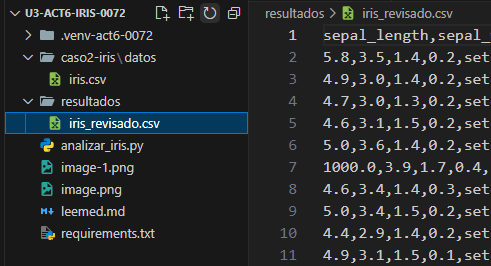
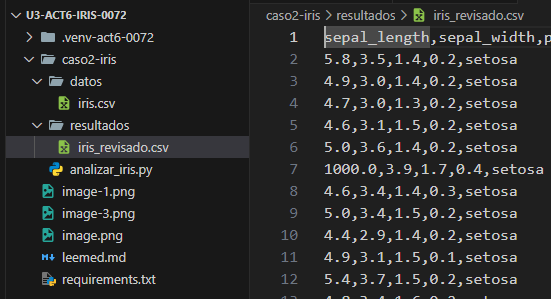
Add files via upload

diff --git a/caso2-iris/analizar_iris.py b/caso2-iris/analizar_iris.py
@@ -1,0 +1,84 @@
+# ==========================================
+# CASO 2: IDENTIFICACIÓN DE PROBLEMAS (SIMULADOS)
+# DATASET: IRIS
+# ==========================================
+import pandas as pd
+import numpy as np
+import os
+
+# Crear las carpetas necesarias si no existen
+os.makedirs("caso2-iris/datos", exist_ok=True)
+os.makedirs("resultados", exist_ok=True)
+
+print("🌸 Iniciando análisis de Flores Iris...\n")
+
+# 1. Descargar el dataset original y guardarlo como CSV
+url = "https://raw.githubusercontent.com/mwaskom/seaborn-data/master/iris.csv"
+df_original = pd.read_csv(url)
+df_original.to_csv("caso2-iris/datos/iris.csv", index=False)
+
+# 2. Crear una copia para "ensuciar" y probar
+df_prueba = df_original.copy()
+
+# ==========================================
+# FASE A: SIMULACIÓN DE ERRORES (¡No tocar en producción real!)
+# ==========================================
+# Error 1: Dato nulo
+df_prueba.loc[0, "sepal_length"] = np.nan
+
+# Error 2: Registro duplicado (copiamos la fila 1 y la pegamos al final)
+df_prueba = pd.concat([df_prueba, df_prueba.iloc[[1]]], ignore_index=True)
+
+# Error 3: Tipo de dato incorrecto (metemos texto en columna numérica)
+df_prueba["sepal_width"] = df_prueba["sepal_width"].astype(object)
+df_prueba.loc[2, "sepal_width"] = "desconocido"
+
+# Error 4: Valor atípico extremo
+df_prueba.loc[5, "sepal_length"] = 1000.0 
+
+# ==========================================
+# FASE B: DETECCIÓN Y LIMPIEZA
+# ==========================================
+print("===== 1. DIMENSIONES TRAS 'ENSUCIAR' =====")
+print(f"Filas: {df_prueba.shape[0]} (Debería ser 151 por el duplicado)\n")
+
+print("===== 2. DETECCIÓN DE NULOS =====")
+print(df_prueba.isnull().sum(), "\n")
+
+print("===== 3. DETECCIÓN DE DUPLICADOS =====")
+print(f"Duplicados encontrados: {df_prueba.duplicated().sum()}\n")
+
+print("===== 4. REVISIÓN DE TIPOS DE DATOS =====")
+print(df_prueba.dtypes, "\n")
+
+# Truco para encontrar texto en columnas numéricas:
+print("===== 5. FORZANDO CONVERSIÓN NUMÉRICA (Detecta errores) =====")
+# 'coerce' convierte lo que no sea número en NaN
+sepal_width_limpio = pd.to_numeric(df_prueba["sepal_width"], errors="coerce")
+errores_tipo = sepal_width_limpio.isnull() & df_prueba["sepal_width"].notnull()
+print(f"Filas con texto en lugar de número: {errores_tipo.sum()}\n")
+
+print("===== 6. DETECCIÓN DE ATÍPICOS (Reglas de negocio) =====")
+print("Valores de sepal_length mayores a 10 cm (imposible en Iris):")
+print(df_prueba[df_prueba["sepal_length"] > 10], "\n")
+
+# ==========================================
+# FASE C: CORRECCIÓN
+# ==========================================
+df_corregido = df_prueba.copy()
+
+# 1. Eliminar duplicados
+df_corregido = df_corregido.drop_duplicates()
+
+# 2. Corregir tipo de dato (el "desconocido" se volverá NaN)
+df_corregido["sepal_width"] = pd.to_numeric(df_corregido["sepal_width"], errors="coerce")
+df_corregido["sepal_length"] = pd.to_numeric(df_corregido["sepal_length"], errors="coerce")
+
+# 3. Rellenar los NaN resultantes (tanto el simulado como el convertido) con la mediana
+df_corregido["sepal_width"] = df_corregido["sepal_width"].fillna(df_corregido["sepal_width"].median())
+df_corregido["sepal_length"] = df_corregido["sepal_length"].fillna(df_corregido["sepal_length"].median())
+
+# 4. Guardar resultado
+df_corregido.to_csv("resultados/iris_revisado.csv", index=False)
+print("✅ Dataset corregido guardado en 'resultados/iris_revisado.csv'")
+print("\n🎉 ¡Análisis del Caso 2 completado con éxito!")
